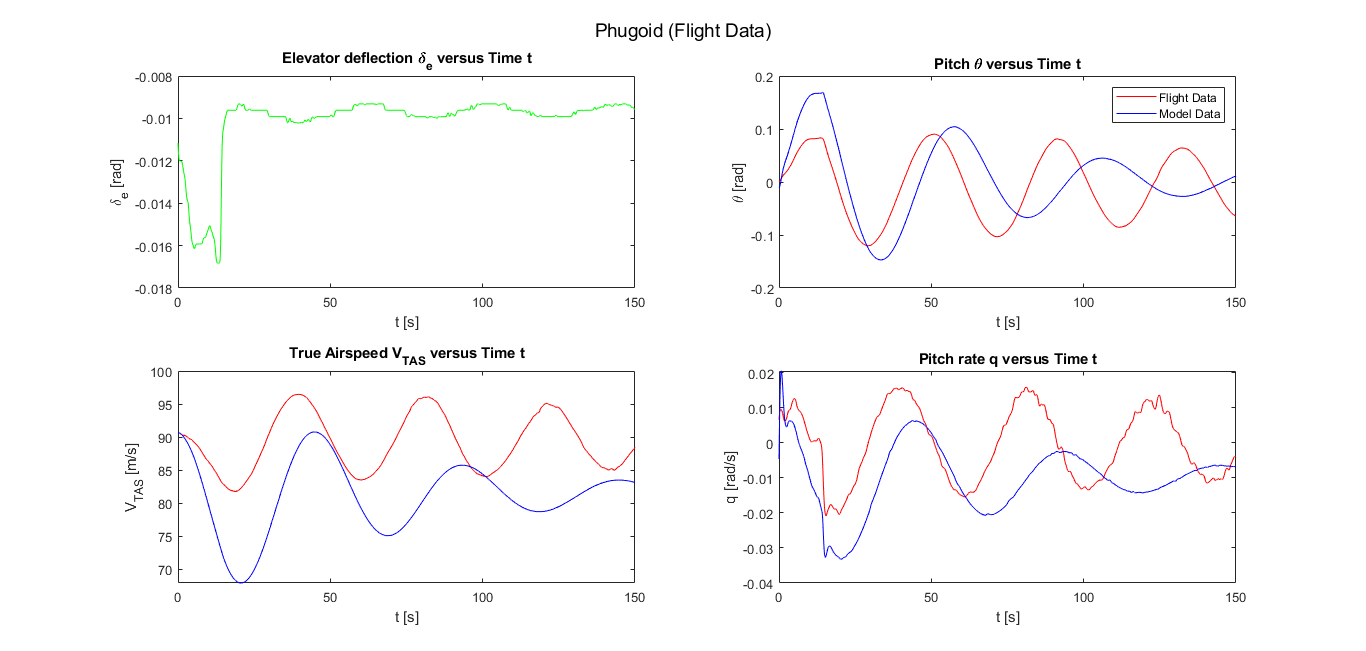
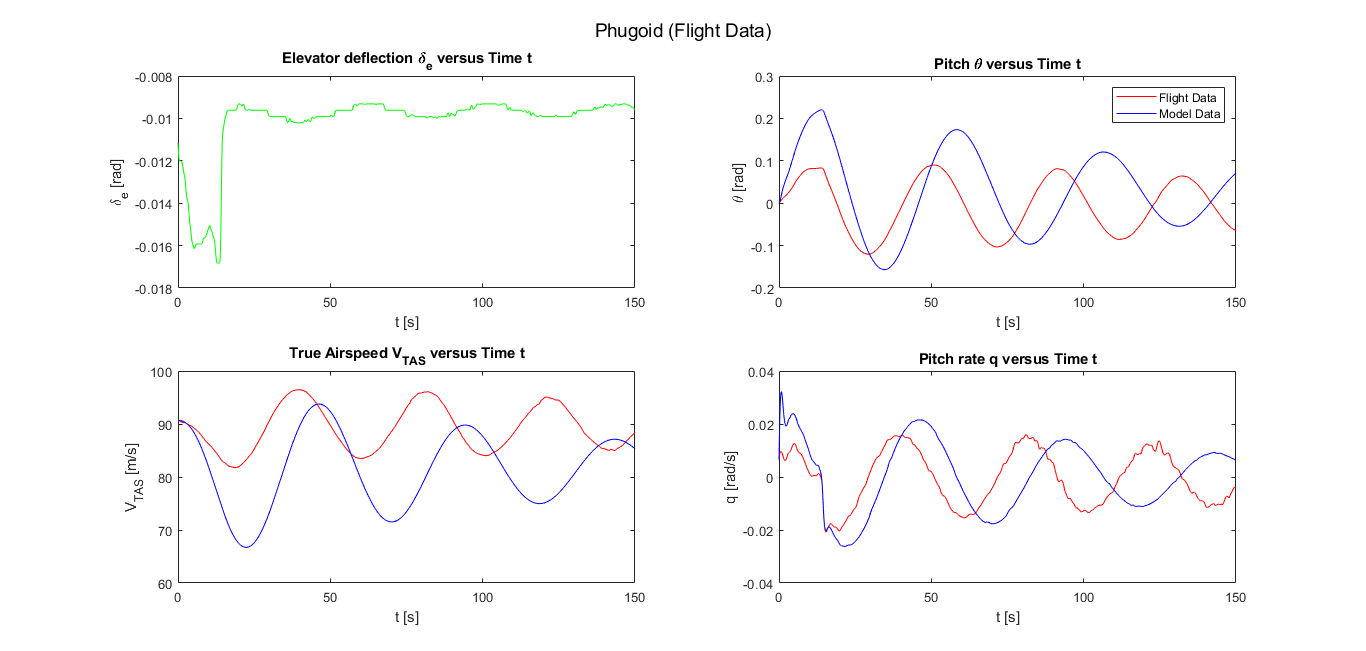
Changed the phugoid figure

diff --git a/Code/NUMERICAL_MODEL/Numerical_Ihab.m b/Code/NUMERICAL_MODEL/Numerical_Ihab.m
@@ -214,8 +214,8 @@ C3_s = [cs_11;cs_21;0;cs_41];
 A_s = -1*C1_s\C2_s;
 B_s = -1*C1_s\C3_s;
 C_s = [1 0 0 0; 0 1 0 0; 0 0 1 0; 0 0 0 1];
-% D_s = zeros(4,1);
-D_s = -1.5*ones(4,1);
+D_s = zeros(4,1);
+% D_s = -1.5*ones(4,1);
 % D_s = ones(4,1);
 sym_sys = ss(A_s,B_s,C_s,D_s); % State-space system
 eig_sym = eig(A_s); % Eigenvalues
@@ -291,7 +291,6 @@ phugoid_plot(vtas(index:endind),thetastab,delta_e(index:endind),q(index:endind),
 % ap_roll_plot(p(index:endind),phi(index:endind),r(index:endind),delta_a(index:endind),delta_r(index:endind),time,p_resp,phi_resp,r_resp,time);
 
 %%
-<<<<<<< HEAD
 
 % time_2 = linspace(0,150,1500);
 % cont_resp = lsim(sym_sys,-10*pi/180*ones(length(time_2),1),time_2,[0,0,0,0]);
@@ -334,24 +333,23 @@ phugoid_plot(vtas(index:endind),thetastab,delta_e(index:endind),q(index:endind),
 % ylabel('q [rad/s]')
 % xlabel('t [s]')
 % xlim([0,6])
-=======
 % initial value problem symetric
-time_2 = linspace(0,150,1500);
-cont_resp = lsim(sym_sys,-10*pi/180*ones(length(time_2),1),time_2,[0,0,0,0]);
-init_plot('Control Input Response \delta_e = -1.5 \circ', time_2, cont_resp(:,1), V0, cont_resp(:,2), cont_resp(:,3),cont_resp(:,4))
-
-
-
-%%
-%initial value problem asymetric
-time_3 = linspace(0,30,1000) ;
->>>>>>> 24ca7ed7f236c176feab1063a7a63a1bbbfbd0c5
-
-asym_init = initial(asym_sys,[0,pi/9,0,0],time_3);
-
-beta        = asym_init(:,1);
-phi         = asym_init(:,2);
-p           = asym_init(:,3);
-r           = asym_init(:,4);
-
-asym_init_plot('Initial Value Response with Initial Roll \phi = \pi/9 [rad]', time_3, beta, phi, p, r)
+% time_2 = linspace(0,150,1500);
+% cont_resp = lsim(sym_sys,-10*pi/180*ones(length(time_2),1),time_2,[0,0,0,0]);
+% init_plot('Control Input Response \delta_e = -1.5 \circ', time_2, cont_resp(:,1), V0, cont_resp(:,2), cont_resp(:,3),cont_resp(:,4))
+% 
+% 
+% 
+% %%
+% %initial value problem asymetric
+% time_3 = linspace(0,30,1000) ;
+% 
+% 
+% asym_init = initial(asym_sys,[0,pi/9,0,0],time_3);
+% 
+% beta        = asym_init(:,1);
+% phi         = asym_init(:,2);
+% p           = asym_init(:,3);
+% r           = asym_init(:,4);
+% 
+% asym_init_plot('Initial Value Response with Initial Roll \phi = \pi/9 [rad]', time_3, beta, phi, p, r)
